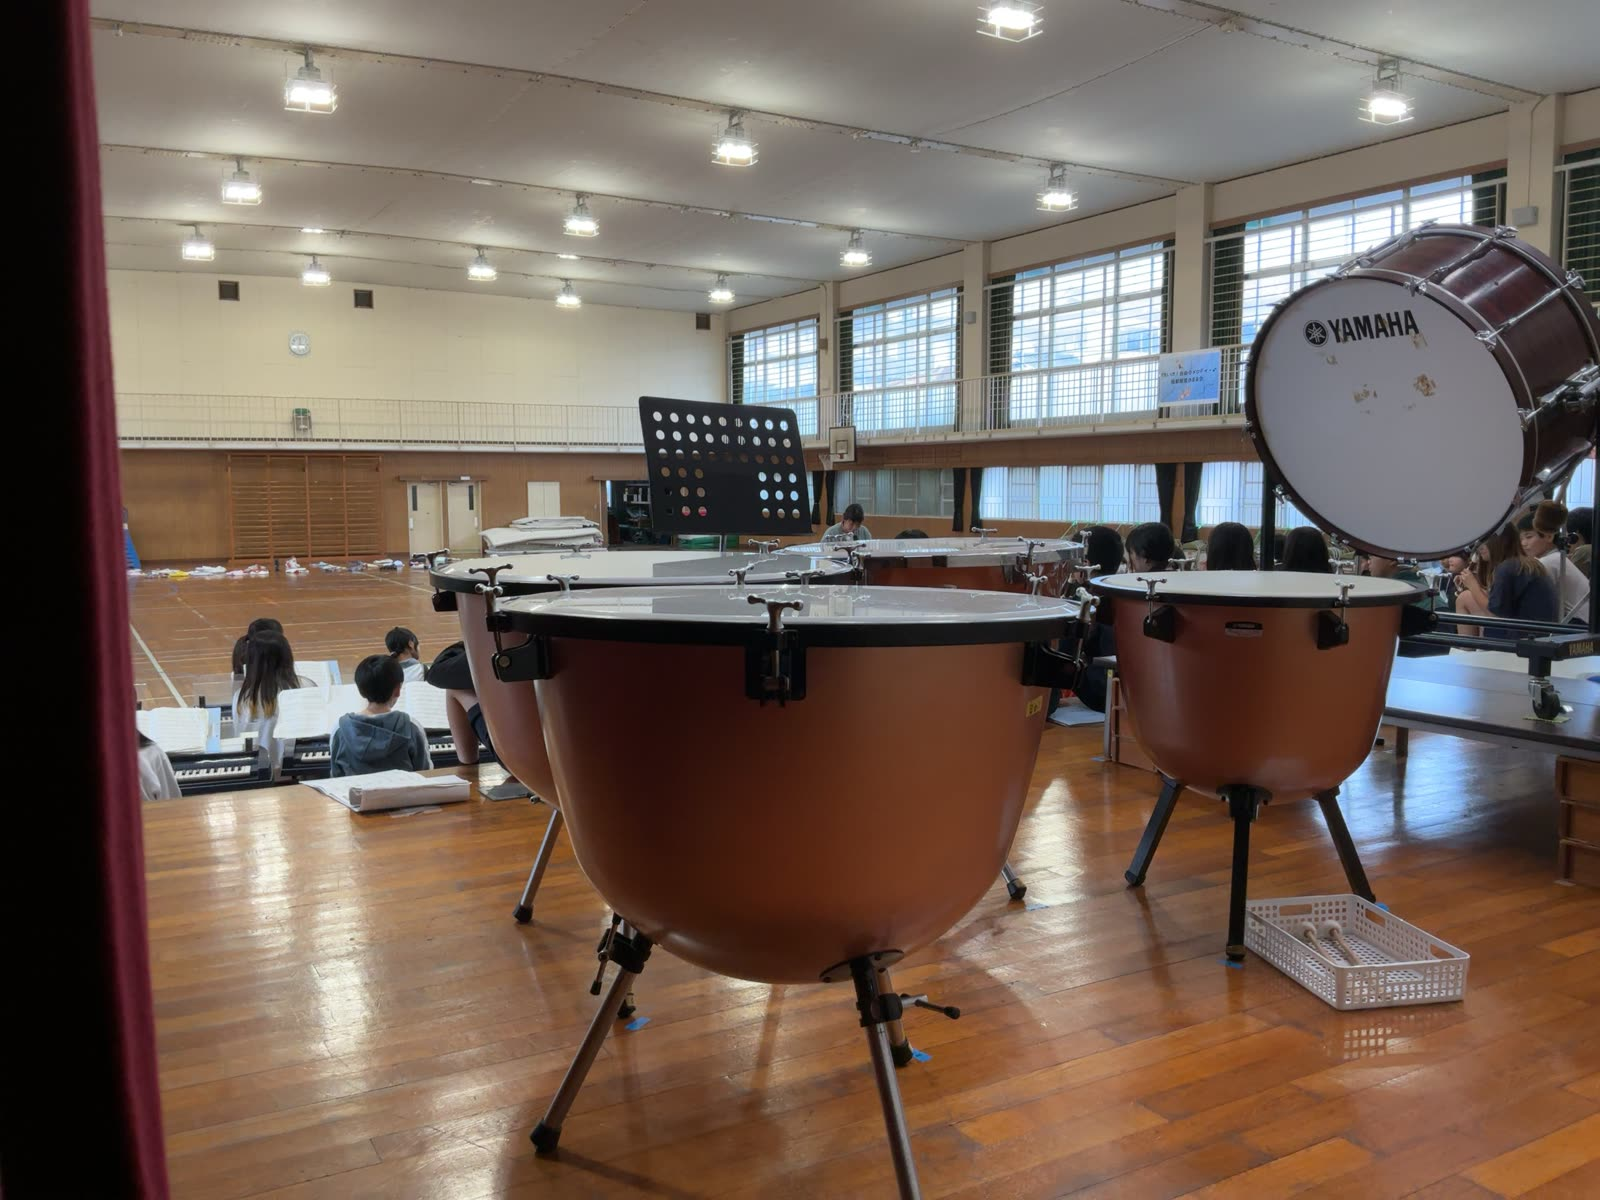
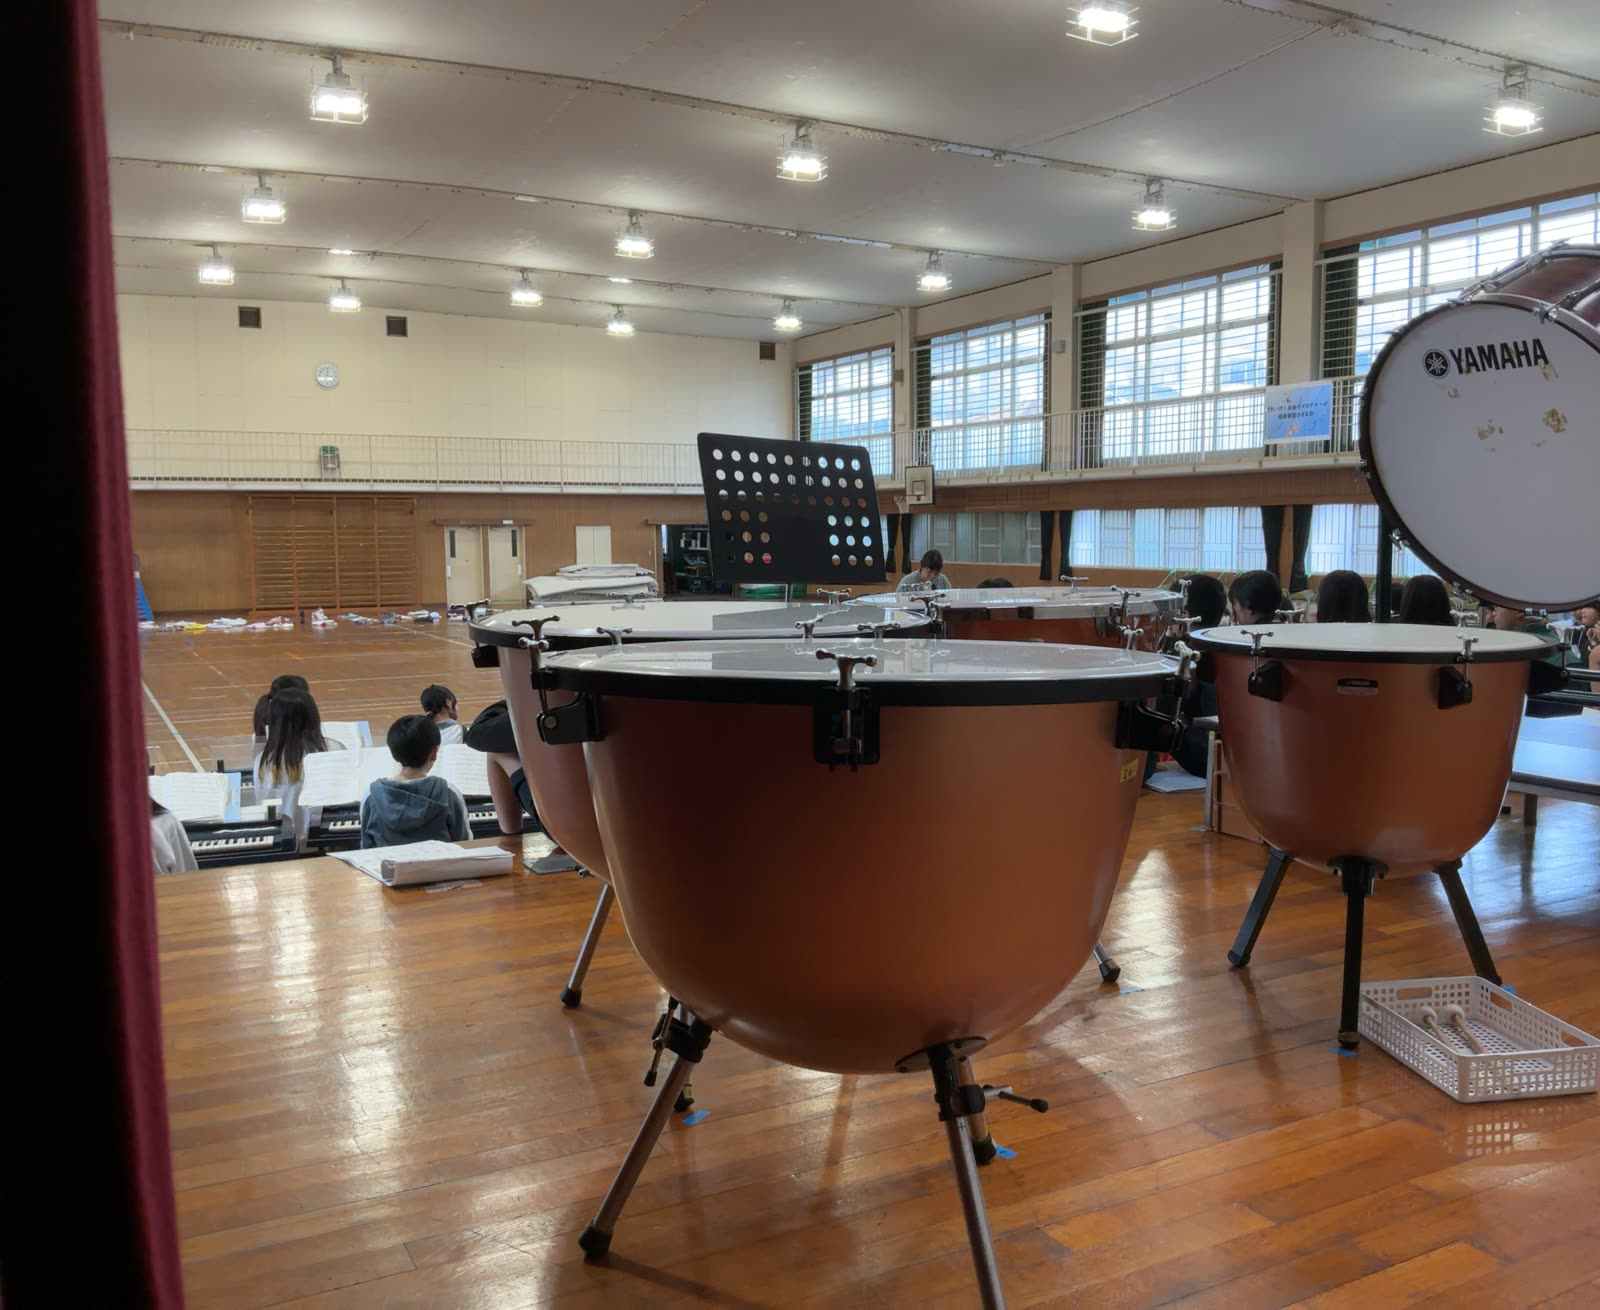
Add files via upload

diff --git a/index.html b/index.html
@@ -121,7 +121,7 @@ body.single .bar h2{text-align:left}
 
 <script>
 "use strict";
-const QUIZ = {"photo": [{"q": "この写真は　何先生の　クラス？", "imgs": ["p1.jpg", "p2.jpg"]}, {"q": "この写真は　何先生の　クラス？", "imgs": ["p7.jpg", "p8.jpg"]}, {"q": "この写真は　何先生の　クラス？", "imgs": ["p5.jpg", "p6.jpg"]}, {"q": "この写真は　何先生の　クラス？", "imgs": ["p3.jpg", "p4.jpg"]}], "nazo": [{"q": "まわりから「しっぽを借りた方がいい」と言われる楽器は？"}, {"q": "ケンくんは　リコーダーを４本同時に「ふく」ことができます。<br>どうやって？"}, {"q": "１週間の中で聴ける、美しい音色の楽器は何？"}, {"q": "音が４回鳴ったら　寄ってくる人はだれ？"}, {"q": "音楽会のスローガンは何でしょう？"}], "intro": [{"era": "1980年代", "file": "intro_1980.mp3"}, {"era": "1990年代", "file": "intro_1990.mp3"}, {"era": "2000年代", "file": "intro_2000.mp3"}, {"era": "2010年代", "file": "intro_2010.mp3"}, {"era": "2020年代", "file": "intro_2020.mp3"}]};
+const QUIZ = {"photo": [{"q": "この写真は　何年生の　クラス？", "imgs": ["p1.jpg", "p2.jpg"]}, {"q": "この写真は　何年生の　クラス？", "imgs": ["p7.jpg", "p8.jpg"]}, {"q": "この写真は　何年生の　クラス？", "imgs": ["p5.jpg", "p6.jpg"]}, {"q": "この写真は　何年生の　クラス？", "imgs": ["p3.jpg", "p4.jpg"]}], "nazo": [{"q": "まわりから「しっぽを借りた方がいい」と言われる楽器は？"}, {"q": "<span style=\"display:block;font-size:30px;line-height:1.4;color:#27316b;font-family:Georgia,serif;margin:6px 0 12px\">“Carried on the Words<br>of Thank You”</span>この英語にしてある歌は<br>何年生の歌でしょう？"}, {"q": "１週間の中で聴ける、美しい音色の楽器は何？"}, {"q": "音が４回鳴ったら　寄ってくる人はだれ？"}, {"q": "音楽会のスローガンは何でしょう？"}], "intro": [{"era": "1980年代", "file": "intro_1980.mp3"}, {"era": "1990年代", "file": "intro_1990.mp3"}, {"era": "2000年代", "file": "intro_2000.mp3"}, {"era": "2010年代", "file": "intro_2010.mp3"}, {"era": "2020年代", "file": "intro_2020.mp3"}]};
 const $ = id => document.getElementById(id);
 const TITLES = {photo:"① 写真クイズ", nazo:"② 音楽なぞなぞ", intro:"③ イントロドン"};
 let kind = null, cur = 0;
